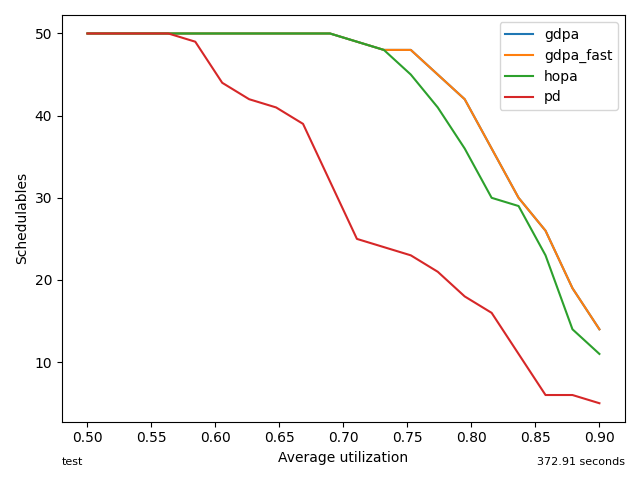
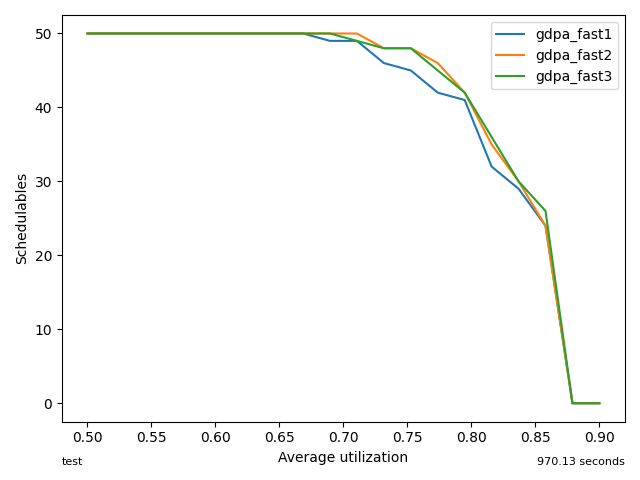
update

diff --git a/workspaces/fast_gradient/fast_gradient_eval.py b/workspaces/fast_gradient/fast_gradient_eval.py
@@ -7,6 +7,7 @@ from evaluation import SchedRatioEval
 from examples import get_system
 from random import Random
 from fast_analysis import FastHolisticFPAnalysis
+from functools import partial
 
 
 def gdpa_fp_vector(system: System) -> bool:
@@ -56,24 +57,27 @@ def gdpa_fp(system: System) -> bool:
     return system.is_schedulable()
 
 
-def gdpa_fp_fast(system: System) -> bool:
+def gdpa_fp_fast(system: System, limit_p=1, limit_i=1, ceiling=False, fast=True,
+                 delta=1.5, lr=3, beta1=0.9, beta2=0.999, epsilon=0.1, gamma=0.9) -> bool:
+
     analysis = HolisticFPAnalysis(limit_factor=10, reset=False)
-    fast_analysis = FastHolisticFPAnalysis(limit_factor=10, limit_p=-1, limit_i=-1, ceiling=True, fast=False)
+    fast_analysis = FastHolisticFPAnalysis(limit_factor=10, limit_p=limit_p, limit_i=limit_i, ceiling=ceiling, fast=fast)
     extractor = PriorityExtractor()
     fast_cost_function = InvslackCost(extractor=extractor, analysis=fast_analysis)
     real_cost_function = InvslackCost(extractor=extractor, analysis=analysis)
-    stop_function = StandardStop(limit=100)
-    delta_function = AvgSeparationDelta(factor=1.5)
+    stop_function = FixedIterationsStop(iterations=100)
+    delta_function = AvgSeparationDelta(factor=delta)
+
+    # gradient with fast cost function
     batch_cost_function = SequentialBatchCostFunction(cost_function=fast_cost_function)
     gradient_function = StandardGradient(delta_function=delta_function,
                                          batch_cost_function=batch_cost_function)
-    update_function = NoisyAdam()
+    update_function = NoisyAdam(lr=lr, beta1=beta1, beta2=beta2, epsilon=epsilon, gamma=gamma)
     optimizer = StandardGradientDescent(extractor=extractor,
                                         cost_function=real_cost_function,
                                         stop_function=stop_function,
                                         gradient_function=gradient_function,
                                         update_function=update_function,
-                                        ref_cost_function=real_cost_function,
                                         verbose=False)
     pd = PDAssignment(normalize=True)
     pd.apply(system)
@@ -110,10 +114,25 @@ if __name__ == '__main__':
     # utilizations between 50 % and 90 %
     utilizations = np.linspace(0.5, 0.9, 20)
 
-    tools = [("gdpa", gdpa_fp),
-             ("gdpa_fast", gdpa_fp_fast),
-             ("hopa", hopa_fp),
-             ("pd", pd_fp)]
+    # tools = [("gdpa", gdpa_fp_vector),
+    #          ("gdpa_fast", gdpa_fp_fast),
+    #          ("hopa", hopa_fp),
+    #          ("pd", pd_fp)]
+
+    fast1 = partial(gdpa_fp_fast, limit_p=1, limit_i=1, ceiling=False, fast=True,
+            delta=1.5, lr=3, beta1=0.9, beta2=0.999, epsilon=0.1, gamma=0.9)
+
+    fast2 = partial(gdpa_fp_fast, limit_p=-1, limit_i=-1, ceiling=False, fast=True,
+                    delta=1.5, lr=3, beta1=0.9, beta2=0.999, epsilon=0.1, gamma=0.9)
+
+    fast3 = partial(gdpa_fp_fast, limit_p=-1, limit_i=-1, ceiling=True, fast=False,
+                    delta=1.5, lr=3, beta1=0.9, beta2=0.999, epsilon=0.1, gamma=0.9)
+
+    tools = [("gdpa_fast1", fast1),
+             ("gdpa_fast2", fast2),
+             ("gdpa_fast3", fast3)
+             ]
+
     labels, funcs = zip(*tools)
     runner = SchedRatioEval("test", labels=labels, funcs=funcs,
                             systems=systems, utilizations=utilizations, threads=6)

diff --git a/workspaces/fast_gradient/fast_cost_correlations.py b/workspaces/fast_gradient/fast_cost_correlations.py
@@ -1,0 +1,62 @@
+import examples
+import random
+from analysis import HolisticFPAnalysis
+from mast_tools import MastOffsetAnalysis
+import matplotlib.pyplot as plt
+from gradient import InvslackCost, PriorityExtractor
+from assignment import random_priority_jump, PDAssignment
+from analysis import reset_wcrt
+from gradient import CostFunction
+from fast_analysis import FastHolisticFPAnalysis
+from fast_costs import SumSlopeCost, AvgSlopeCost, WorstFlowSlopeCost
+
+
+def correlate(extractor, ref_cost: CostFunction, cost: CostFunction, ax, system):
+    rnd = random.Random(1)
+    pd = PDAssignment()
+    pd.apply(system)
+
+    xy = []
+    print(cost)
+    for i in range(1000):
+        print(i)
+        if i % 20 == 0:
+            pd.apply(system)
+        random_priority_jump(system, rnd)
+        input = extractor.extract(system)
+
+        reset_wcrt(system)
+        x = ref_cost.apply(system, input)
+
+        reset_wcrt(system)
+        y = cost.apply(system, input)
+
+        xy.append((x, y))
+
+    x, y = zip(*xy)
+    ax.set_title(cost)
+    ax.scatter(x, y, alpha=0.5)
+
+
+def study_corr():
+    s = examples.get_small_system(random=random.Random(42), utilization=0.7, balanced=True)
+    extractor = PriorityExtractor()
+    holistic = HolisticFPAnalysis(limit_factor=10, reset=False)
+    ref = InvslackCost(extractor=extractor, analysis=holistic)
+    fig, axs = plt.subplots(nrows=2, ncols=3, figsize=(10, 8))
+
+    costs = [InvslackCost(extractor, analysis=FastHolisticFPAnalysis(limit_i=-1, limit_p=-1, ceiling=True, fast=True)),
+             InvslackCost(extractor, analysis=FastHolisticFPAnalysis(limit_i=-1, limit_p=-1, ceiling=False, fast=True)),
+             InvslackCost(extractor, analysis=FastHolisticFPAnalysis(limit_i=1, limit_p=1, ceiling=False, fast=False)),
+             WorstFlowSlopeCost(extractor),
+             AvgSlopeCost(extractor),
+             SumSlopeCost(extractor)]
+
+    for ax, cost in zip(axs.flat, costs):
+        correlate(extractor, ref, cost, ax, s)
+
+    plt.show()
+
+
+if __name__ == '__main__':
+    study_corr()

diff --git a/fast_costs.py b/fast_costs.py
@@ -1,0 +1,60 @@
+from fast_analysis import func_w
+from gradient_funcs import CostFunction, Extractor
+from model import System, Task
+from assignment import save_assignment, restore_assignment
+from analysis import init_wcrt
+
+
+class AvgSlopeCost(CostFunction):
+    def __init__(self, extractor: Extractor):
+        self.extractor = extractor
+
+    def _slope(self, task: Task):
+        x0 = 0
+        x1 = task.flow.deadline
+        y0 = func_w(task, 0, x0)
+        y1 = func_w(task, 0, x1)
+        return (y1-y0)/x1
+
+    def apply(self, S: System, x: [float]) -> float:
+        init_wcrt(S)
+        slopes = [self._slope(t) for t in S.tasks]
+        return sum(slopes)/len(slopes)
+
+
+class SumSlopeCost(CostFunction):
+    def __init__(self, extractor: Extractor):
+        self.extractor = extractor
+
+    def _slope(self, task: Task):
+        x0 = 0
+        x1 = task.flow.deadline
+        y0 = func_w(task, 0, x0)
+        y1 = func_w(task, 0, x1)
+        return (y1-y0)/x1
+
+    def apply(self, S: System, x: [float]) -> float:
+        init_wcrt(S)
+        slopes = [self._slope(t) for t in S.tasks]
+        return sum(slopes)
+
+
+class WorstFlowSlopeCost(CostFunction):
+    def __init__(self, extractor: Extractor):
+        self.extractor = extractor
+
+    def _slope(self, task: Task):
+        x0 = 0
+        x1 = task.flow.deadline
+        y0 = func_w(task, 0, x0)
+        y1 = func_w(task, 0, x1)
+        return (y1-y0)/x1
+
+    def apply(self, S: System, x: [float]) -> float:
+        init_wcrt(S)
+        ret = 0
+        for flow in S.flows:
+            s = sum([self._slope(t) for t in flow.tasks])
+            if s > ret:
+                ret = s
+        return ret

diff --git a/fast_analysis.py b/fast_analysis.py
@@ -6,7 +6,7 @@ import math
 
 
 def func_w(task: Task, p, w, ceiling=True):
-    """eq (1) from the paper 'On the Schedulability ....'"""
+    """w function, eq (1) from the paper 'On the Schedulability ....'"""
     hp = higher_priority(task)
     ceil = np.ceil if ceiling else lambda x: x
     result = (p * task.wcet
@@ -20,7 +20,8 @@ def func_r(w, p, task):
 
 
 def fast_converge(f, x2):
-    """Fast converge function f (not exact but faster than recursive solution)"""
+    """Fast converge function f (not exact but faster than recursive solution).
+    This is an intersection netween 2 lines: one that mimics the w function, and line y=x"""
     x1 = 0
     y1 = f(x1)
     y2 = f(x2)

diff --git a/gradient.py b/gradient.py
@@ -239,7 +239,7 @@ class GradientNoise(UpdateFunction):
         # noise added to the gradients helps with the optimization
         # the noise decays with the iterations
         # for big systems (e.g. 10x10x5), it is beneficial to reduce the noise added, so
-        # I added a reducing factor to the noise (len(coeffs)): bigger systems -> less noise
+        # I added a reducing factor to the noise (len(nabla)): bigger systems need less noise
         # for smaller systems, this reduction seems to not affect negatively
         std = self.lr / (1 + t + len(nabla)) ** self.gamma
         noise = self.rng.normal(0, std, len(nabla))
